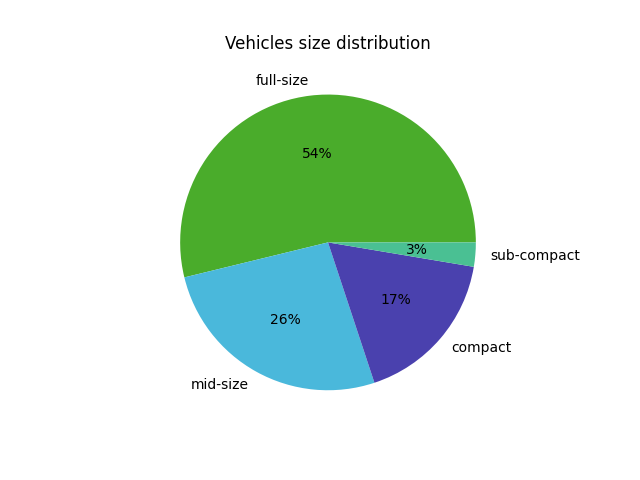
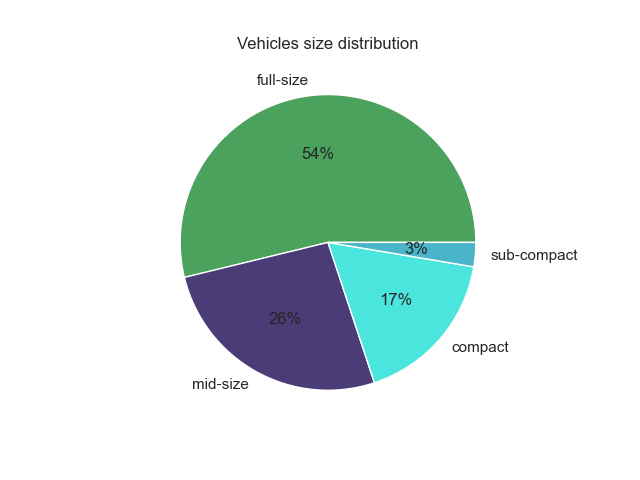
price distibution added

Changed region(s): [[0.2812, 0.1562, 0.9062, 0.8125], [0.3438, 0.0625, 0.6875, 0.125], [0.7188, 0.7188, 0.8125, 0.75]]

diff --git a/api/api.py b/api/api.py
@@ -1,5 +1,6 @@
 import matplotlib
 import matplotlib.pyplot as plt
+import seaborn as sns
 import random
 import matplotlib.colors as mcolors
 import numpy as np
@@ -197,37 +198,48 @@ def plot():
 
         
         # Manufacturer vs No. of vehicles
-        lst1=[key for key in mnf.keys()]
-        lst2=[val for val in mnf.values()]
-        # Bar plot
-        matplotlib.pyplot.switch_backend('Agg')
-        plt.bar(lst1, lst2, color ='green', width = 0.5)
-        plt.xticks(lst1, rotation=90)
-        plt.subplots_adjust(bottom=0.4, top=0.99)
+        # lst1=[key for key in mnf.keys()]
+        # lst2=[val for val in mnf.values()]
+        # # Bar plot
+        # matplotlib.pyplot.switch_backend('Agg')
+        # plt.bar(lst1, lst2, color ='green', width = 0.5)
+        # plt.xticks(lst1, rotation=90)
+        # plt.figure(figsize = (15,8))
+        # # plt.subplots_adjust(bottom=0.4, top=0.99)
+        # plt.xlabel("Manufacturer")
+        # plt.ylabel("No. of vehicles")
+        # plt.title("Manufacturer vs No. of vehicles")
+        # plt.figure(figsize = (15,8))
+        # plt.show()
+        # plt.savefig("manufacturer.png")
+        # plt.close()
+
+        manufacturer_label=[key for key in mnf.keys()]
+        manufacturer_count=[val for val in mnf.values()]
+        matplotlib.pyplot.switch_backend('Agg') 
+        sns.set_style('darkgrid')
+        plt.figure(figsize = (15,8))
+        sns.barplot(manufacturer_label, manufacturer_count)
+        plt.xticks(rotation=90)
         plt.xlabel("Manufacturer")
         plt.ylabel("No. of vehicles")
-        plt.title("Manufacturer vs No. of vehicles")
         plt.show()
-        plt.savefig("manufacturer.png")
+        plt.savefig('manufacturer.png')
         plt.close()
 
-        # Year vs No of vehicles
-        # print("year: ",year)
-        # year_label=[key for key in year.keys()]
-        # year_count=[val for val in year.keys()]
-        # number_of_colors=len(year_label)
-        # print("years length: ",number_of_colors)
-        # # colors = random.choices(list(mcolors.CSS4_COLORS.values()),k = number_of_colors)
-        # year_count=[val for val in year.keys()]
-        # plt.scatter(year_count, year_label)
-        # # plt.xticks(origin_year, rotation=90)
-        # plt.subplots_adjust(bottom=0.4, top=0.99)
-        # plt.xlabel("Year")
-        # plt.ylabel("No. of vehicles")
-        # plt.title("Year vs No. of vehicles")
-        # plt.show()
-        # plt.savefig("years.png")
-        # plt.close()
+
+        # Year vs No. of Vehicles
+        print("year: ",year)
+        year_label=[key for key in year.keys()]
+        year_count=[val for val in year.values()]
+        sns.set_theme(style="darkgrid")
+        plt.figure(figsize = (15,8))
+        sns.lineplot(year_label, year_count)
+        plt.xlabel("Year")
+        plt.ylabel("No. of vehicles")
+        plt.show()
+        plt.savefig('years.png')
+        plt.close()
 
         # Size Pie chart
         print("size: ",size)
@@ -244,24 +256,6 @@ def plot():
         plt.savefig('pie.png')
         plt.close()
 
-        # Price Distribution
-
-
-        with open('pie.png') as pltfile:
-            endpoint_url = os.getenv("S3_HOST")
-            boto3.setup_default_session(aws_access_key_id=os.getenv('AWS_ACCESS_KEY_ID'),
-                            aws_secret_access_key=os.getenv('AWS_SECRET_ACCESS_KEY'))
-            client = boto3.client(
-                "s3", 
-                region_name=os.environ.get('AWS_REGION'),
-                endpoint_url=endpoint_url,
-            )
-            response = client.upload_file(
-                'pie.png',
-                os.getenv('S3_BUCKET'),
-                'pie.png',
-                ExtraArgs={'ACL': 'public-read'}
-            )
         
         with open('manufacturer.png') as pltfile:
             endpoint_url = os.getenv("S3_HOST")
@@ -279,7 +273,39 @@ def plot():
                 ExtraArgs={'ACL': 'public-read'}
             )
 
+        with open('years.png') as pltfile:
+            endpoint_url = os.getenv("S3_HOST")
+            boto3.setup_default_session(aws_access_key_id=os.getenv('AWS_ACCESS_KEY_ID'),
+                            aws_secret_access_key=os.getenv('AWS_SECRET_ACCESS_KEY'))
+            client = boto3.client(
+                "s3", 
+                region_name=os.environ.get('AWS_REGION'),
+                endpoint_url=endpoint_url,
+            )
+            response = client.upload_file(
+                'years.png',
+                os.getenv('S3_BUCKET'),
+                'years.png',
+                ExtraArgs={'ACL': 'public-read'}
+            )
         
+        with open('pie.png') as pltfile:
+            endpoint_url = os.getenv("S3_HOST")
+            boto3.setup_default_session(aws_access_key_id=os.getenv('AWS_ACCESS_KEY_ID'),
+                            aws_secret_access_key=os.getenv('AWS_SECRET_ACCESS_KEY'))
+            client = boto3.client(
+                "s3", 
+                region_name=os.environ.get('AWS_REGION'),
+                endpoint_url=endpoint_url,
+            )
+            response = client.upload_file(
+                'pie.png',
+                os.getenv('S3_BUCKET'),
+                'pie.png',
+                ExtraArgs={'ACL': 'public-read'}
+            )
+        
+
         return flask.jsonify(message="Success")
     except requests.exceptions.HTTPError as err:
         return err.response.text, err.response.status_code 
